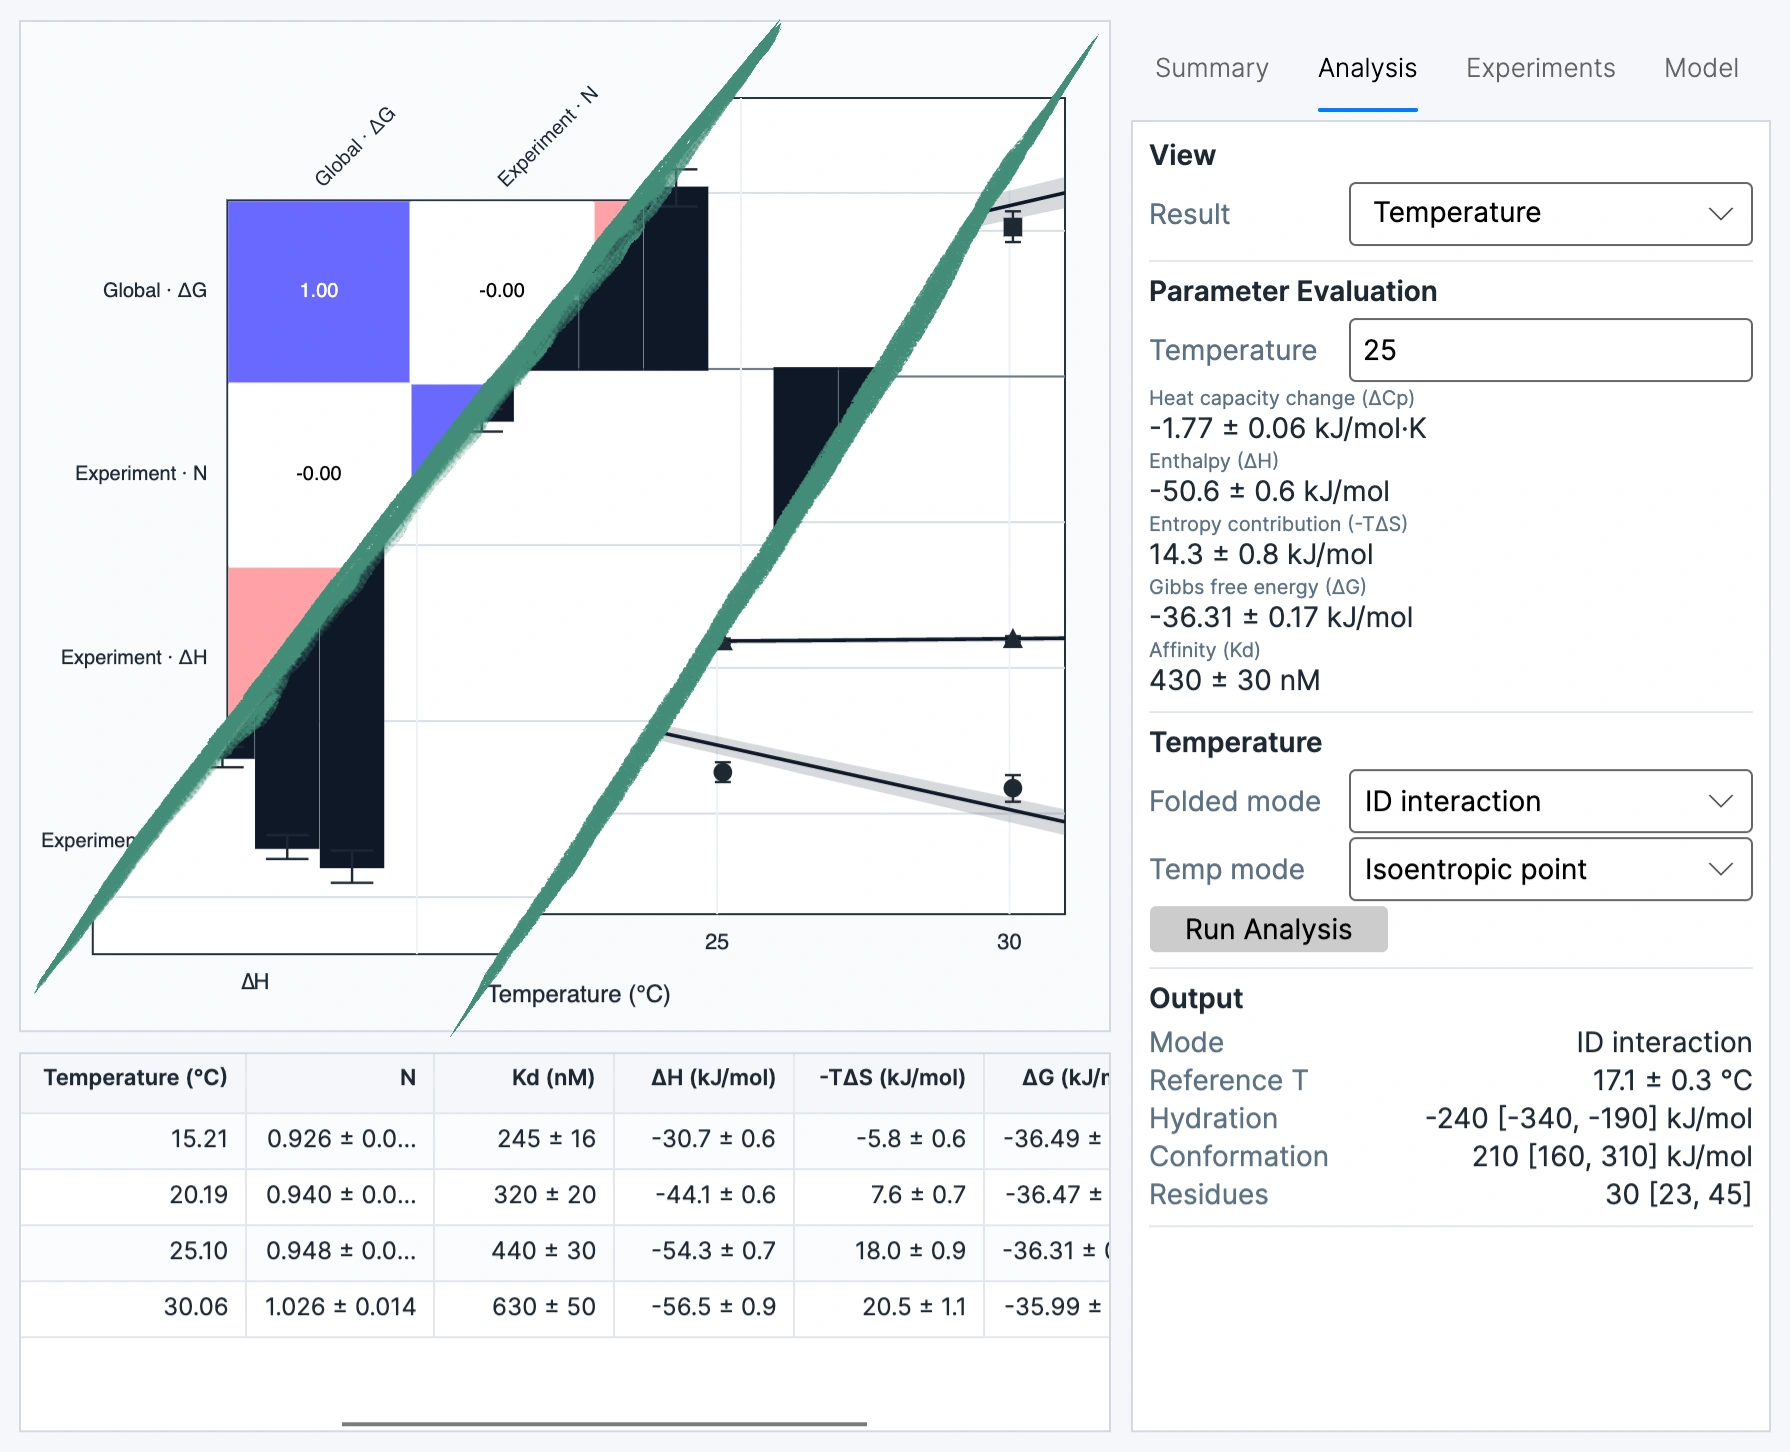
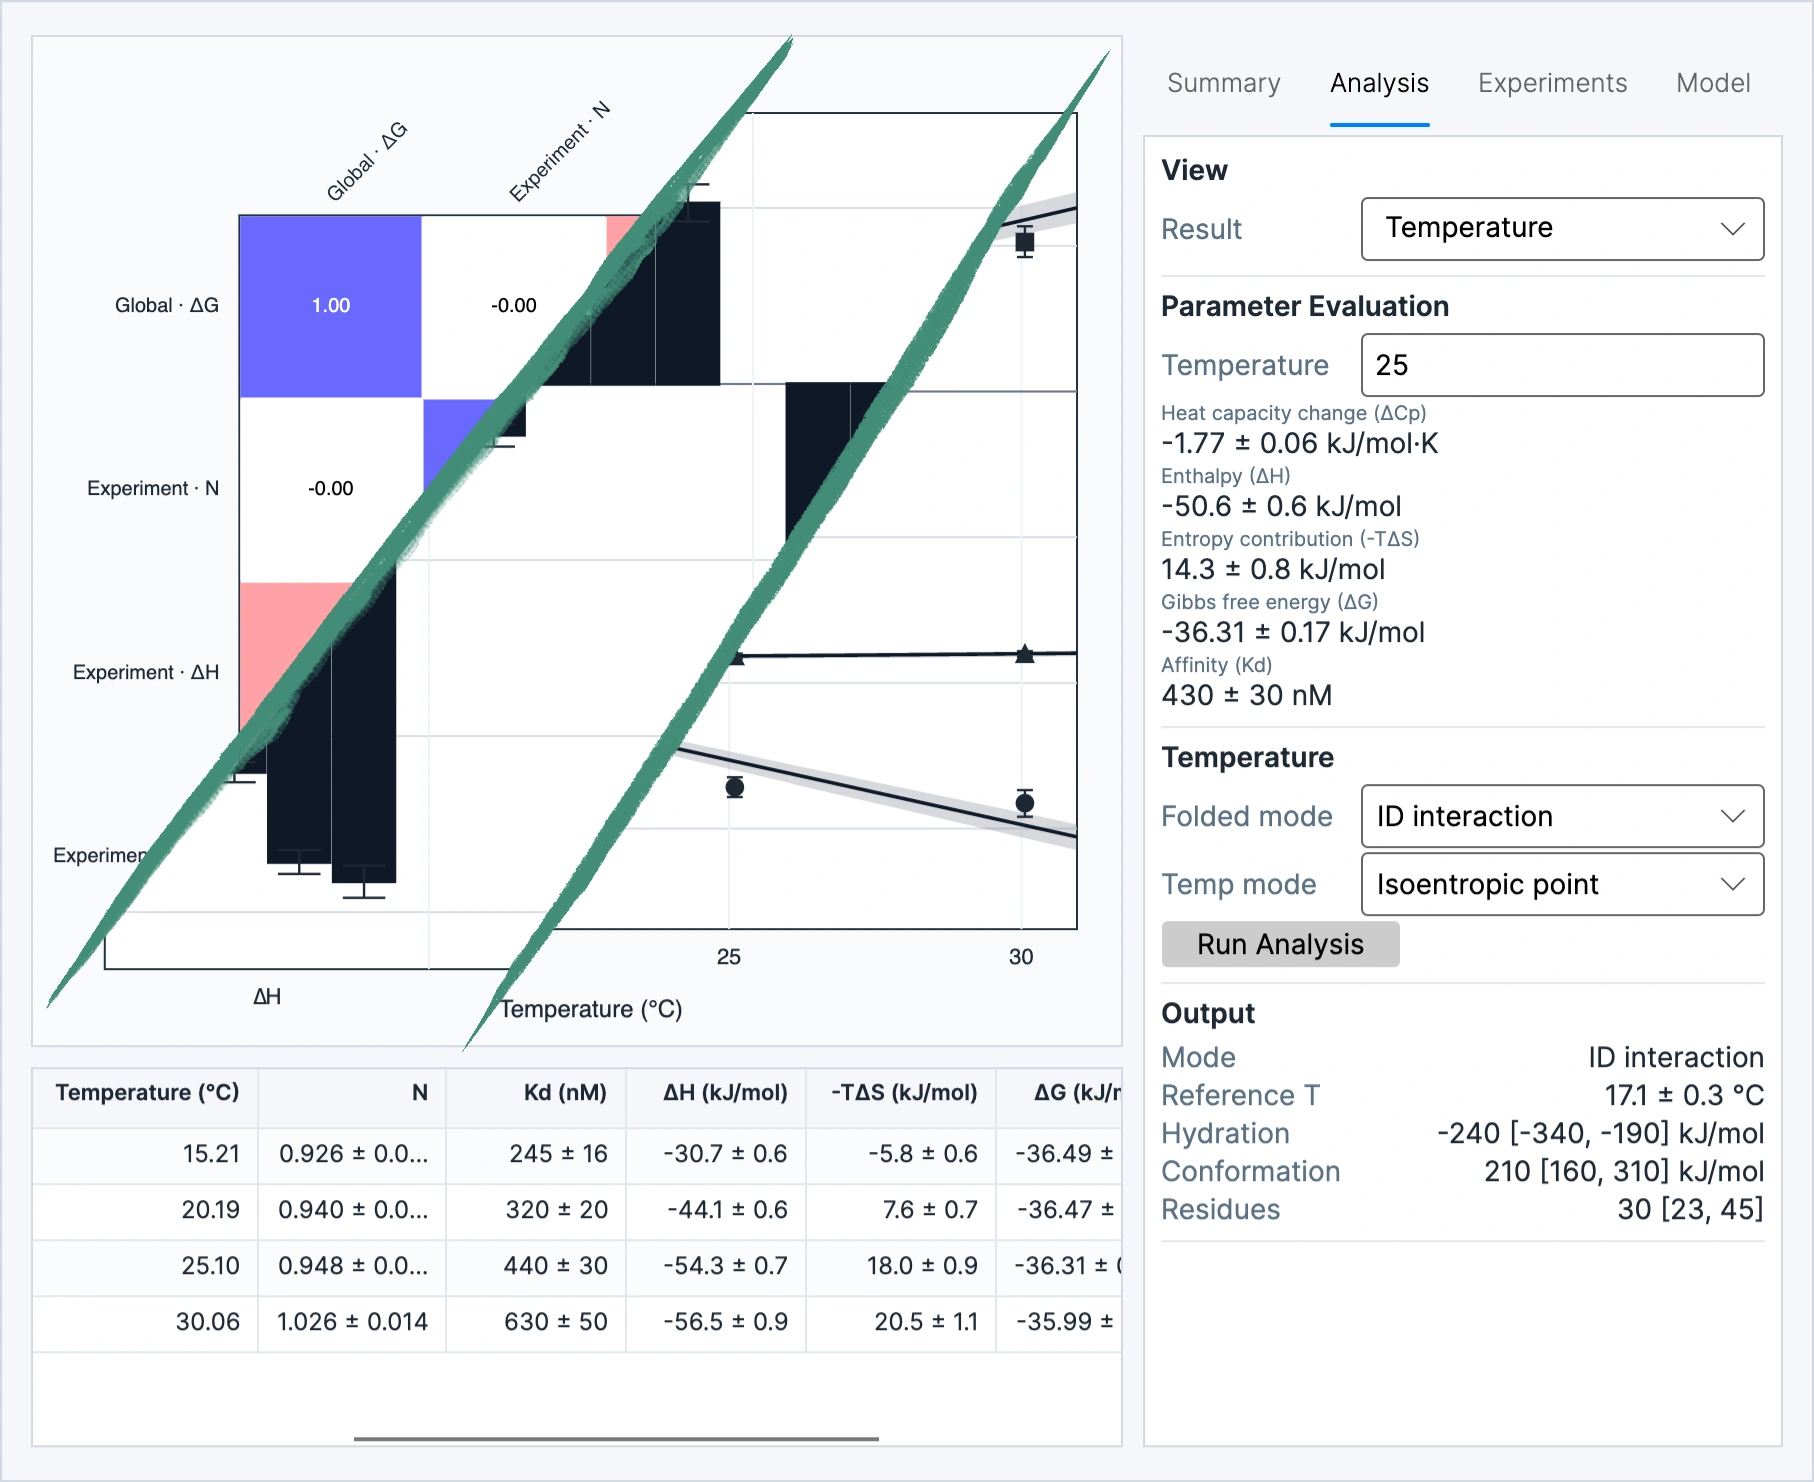
updated graphics

diff --git a/app-desktop.html b/app-desktop.html
@@ -214,7 +214,7 @@
           <div class="section-heading narrow">
             <p class="eyebrow">ITC file formats</p>
             <h2>Start from the data you have.</h2>
-            <p>Import compatible raw data, vendor projects and integrated heats, including native <code>.nitc</code> and Origin <code>.opj</code> files.</p>
+            <p>Import compatible raw data, vendor projects and integrated heats, including native MicroCal<code>.itc</code> and TA Instruments <code>.nitc</code> files.</p>
           </div>
           <div class="file-grid file-grid--formats">
             <article>
@@ -243,7 +243,7 @@
               <p>Import the first recognized ITC worksheet as a raw thermogram when available, or as integrated heats otherwise.</p>
             </article>
             <article>
-              <code>.dat · .aff · .dh</code>
+              <code>.dat | .aff | .dh</code>
               <h3>Integrated heats</h3>
               <p>Bring compatible integrated heat data into fitting and further analysis.</p>
             </article>
